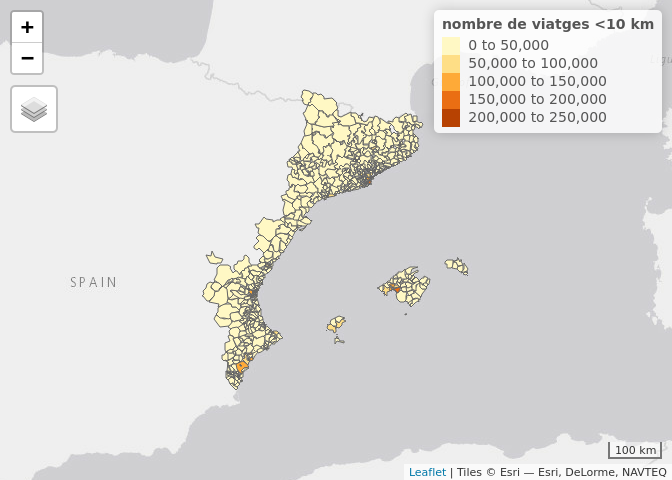
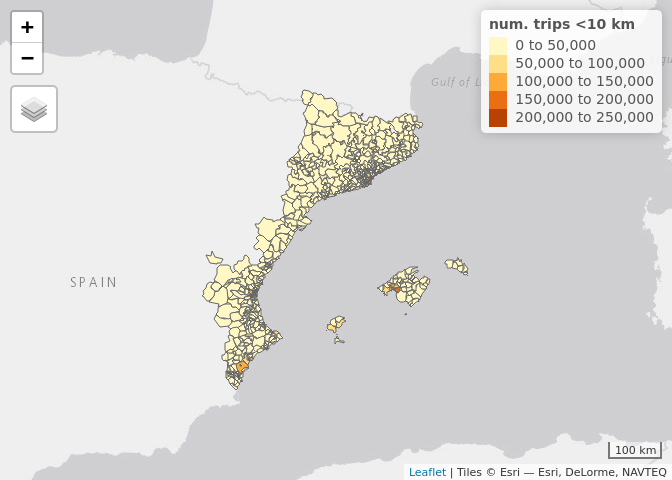
update

Changed region(s): [[0.625, 0.0312, 0.9688, 0.2812]]

diff --git a/README.md b/README.md
@@ -83,7 +83,7 @@ dist_202102_2 = dist_202102 %>%
 dist_202102_3 = dist_202102_2 %>% 
   filter(distancia == "002-005" | distancia == "005-010") %>% 
   group_by(origen, prov_O, dist_O) %>% 
-  summarise("nombre de viatges <10 km"= sum(viajes))
+  summarise("num. trips <10 km"= sum(viajes))
 ## `summarise()` has grouped output by 'origen', 'prov_O'. You can override using
 ## the `.groups` argument.
 
@@ -100,10 +100,9 @@ dist_202102_5 = dist_202102_4 %>%
 dist_202102_5 = st_sf(dist_202102_5)
 
 
-qtm(dist_202102_5, "nombre de viatges <10 km")
+qtm(dist_202102_5, "num. trips <10 km")
 ```
 
 ![](README_files/figure-gfm/unnamed-chunk-3-1.png)<!-- -->
 
-Figura 1: Nombre de viatges de menys de 10 km per districtes durant el
-mes de febrer de 2021
+Fig 1: Number of trips under 10 km by district on February 2021
